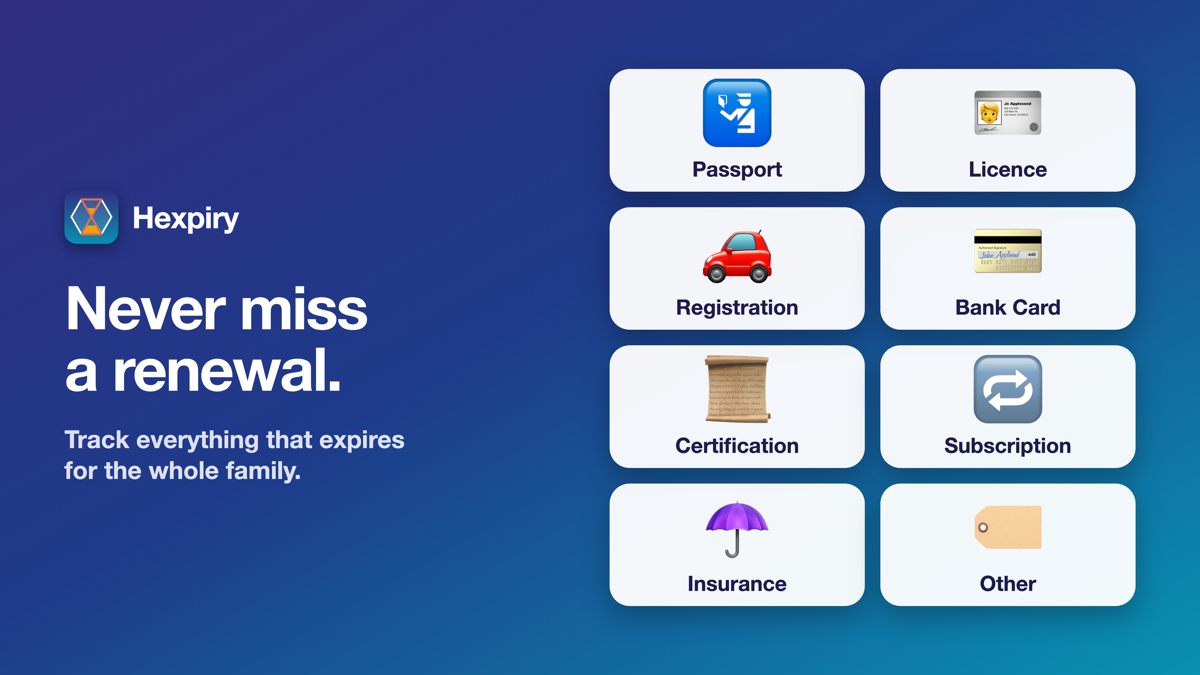
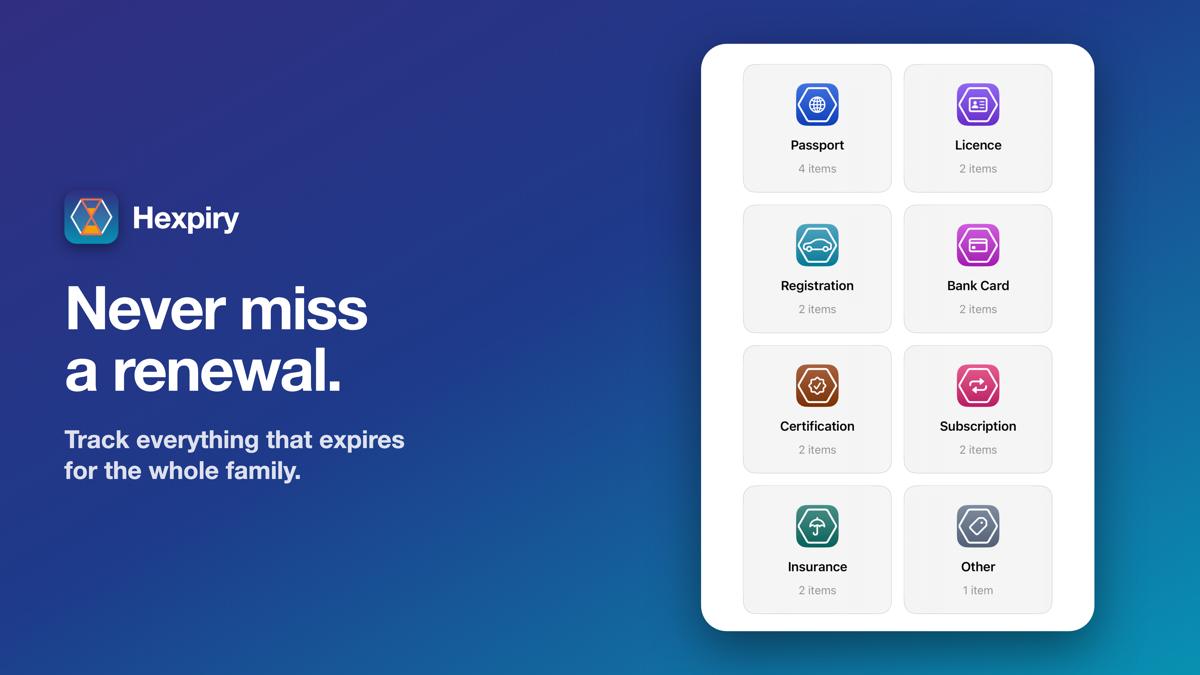
New badge screenshots and social card

Changed region(s): [[0.4933, 0.0622, 0.9558, 0.9956]]

diff --git a/index.html b/index.html
@@ -251,7 +251,7 @@
         </ul>
       </div>
       <div class="art">
-        <div class="phone"><img src="images/screen-browse.png" alt="Browse screen with a picture tile for each item type"></div>
+        <div class="phone"><img src="images/screen-browse.png" alt="Browse screen with a coloured icon tile for each item type"></div>
       </div>
     </section>
 
